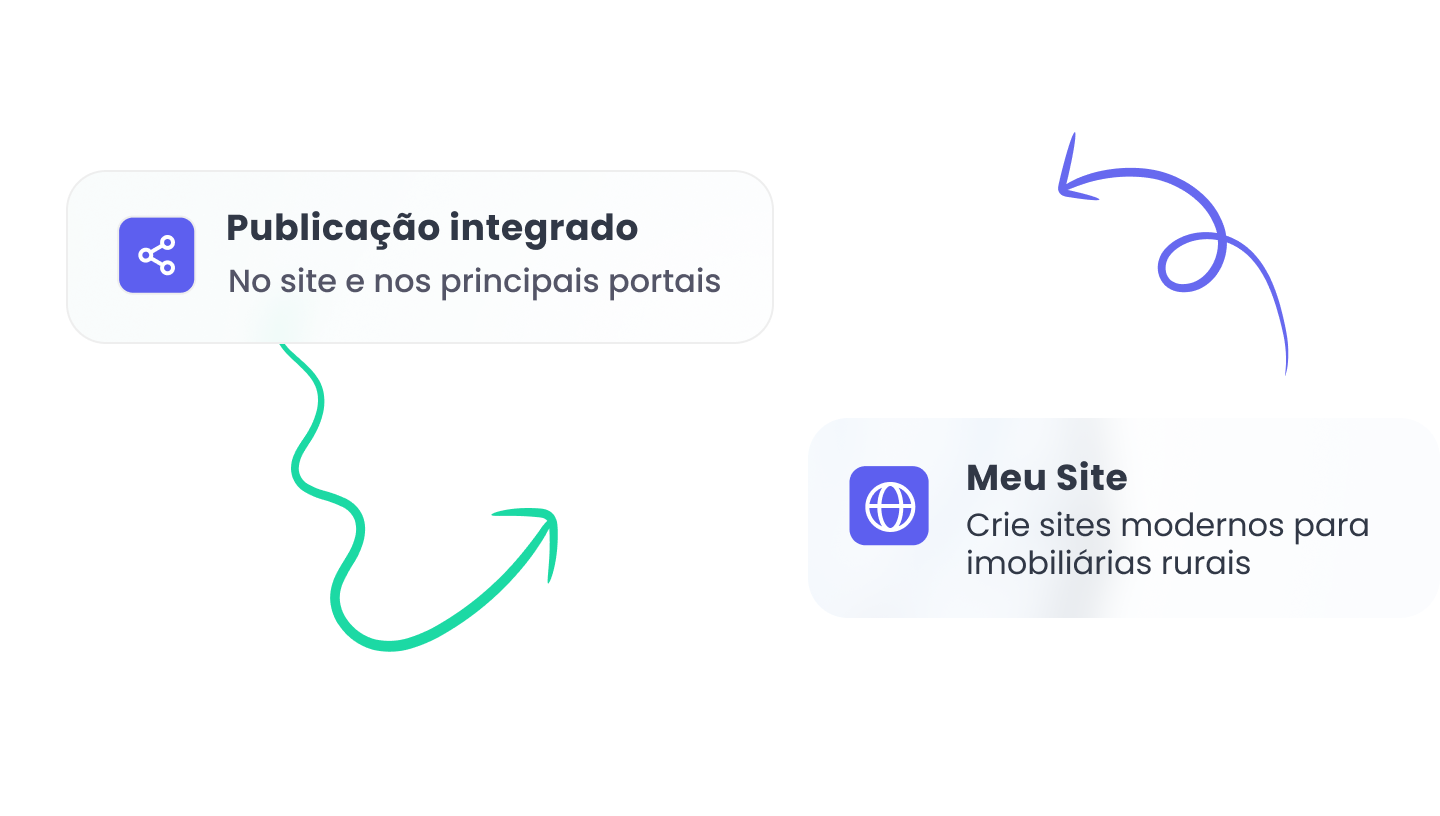
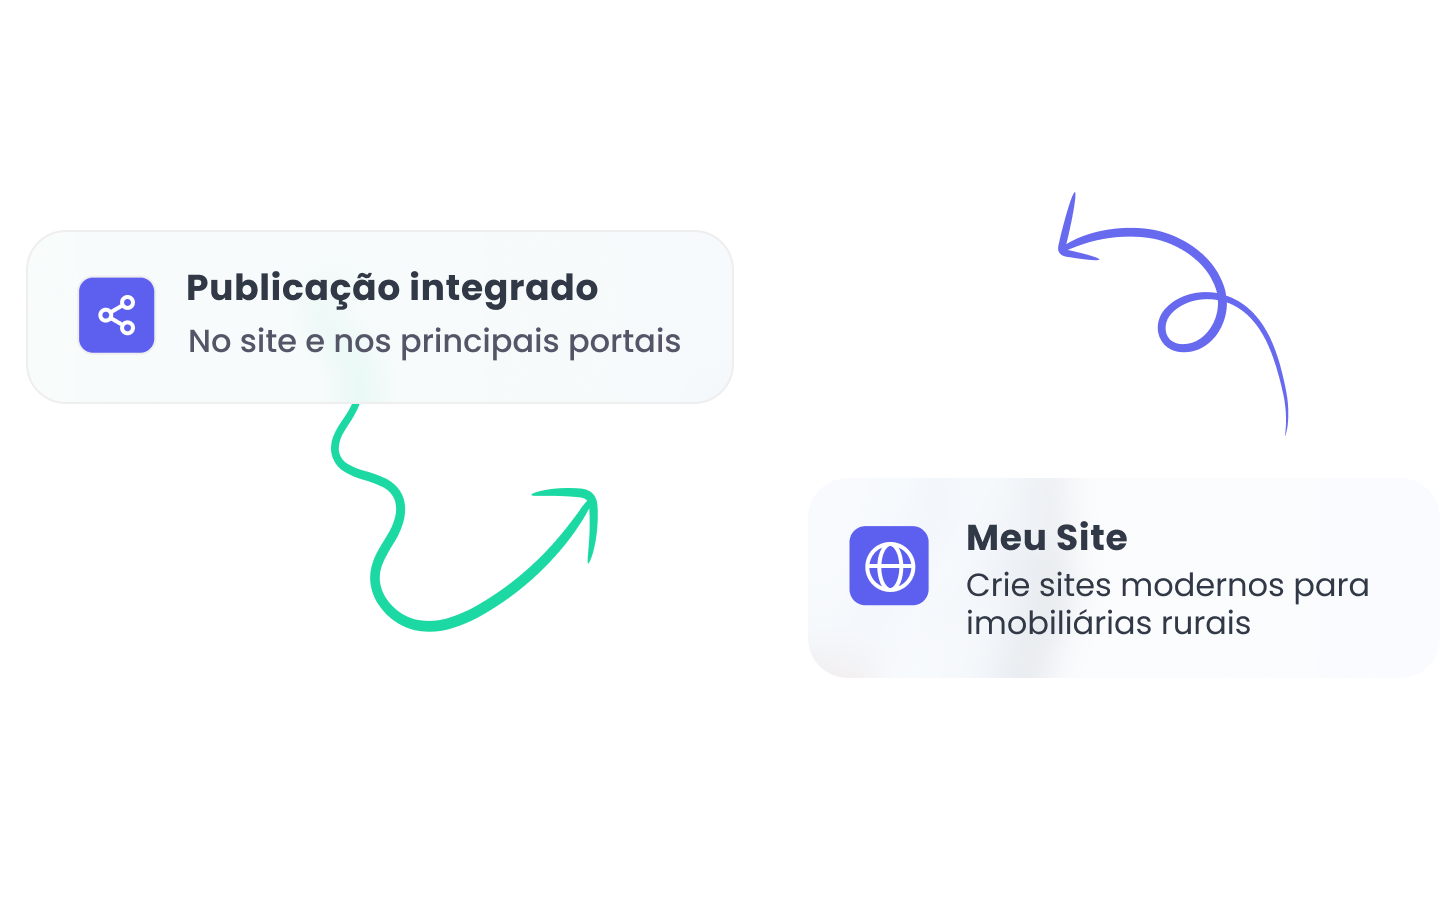
feat(modulos): update API Hub, Technology and Rural assets
Rework the APIs Technology section (no background panel, Figma spacing, new
curve arrow exported from Figma) and make the APIs Hub section wrap
CrmPortfolio so it follows the standard panel width and gradient. Add the
label for the new curve arrow and update the Site Rural card arrow, Site Rural
listings mockup and CRM Rural portfolio mockup images.

diff --git a/app/components/sections/ApisTechnology.vue b/app/components/sections/ApisTechnology.vue
@@ -5,25 +5,59 @@ const mockupImgAttrs = {
   class: 'mx-auto h-auto w-full max-w-[1100px] rounded-[16px] tablet-lg:rounded-[24px]',
   loading: 'lazy'
 }
+
+const curveSrc = '/icons/apis-tecnologia-seta-curva.svg'
+const starSrc = '/icons/crm-tecnologia-estrela.svg'
 </script>
 
 <template>
-  <CrmTechnology
-    section-id="apis-tecnologia"
-    title-class="mx-auto leading-[1.4] desktop-full:max-w-[1000px]"
-    mockup-src="/images/modulos-apis-hub-integrador/technology-mockup-telas.png"
-    :mockup-width="2200"
-    :mockup-height="1293"
-    mockup-sizes="mobile-lg:100vw tablet-lg:920px desktop:1100px"
-    :mockup-img-attrs="mockupImgAttrs"
-  >
-    <template #title>
-      Integrações que ampliam o alcance do seu negócio <span class="text-brand">imobiliário</span>
-    </template>
+  <section id="apis-tecnologia" class="relative py-10">
+    <div class="mx-auto w-full max-w-[1400px] px-4 mobile-lg:px-6 tablet:px-8 desktop-full:px-0">
+      <div class="relative flex flex-col items-center gap-10">
+        <h2 class="mx-auto text-center leading-[1.4] desktop-full:max-w-[1000px]">
+          APIs e HUB Integrador:<br class="hidden tablet-lg:inline" /> toda a sua operação <span class="text-brand">conectada</span>
+        </h2>
 
-    <template #description>
-      Integre Facebook Ads, Instagram Ads e outros canais para captar leads qualificados em todos
-      os segmentos.
-    </template>
-  </CrmTechnology>
+        <div class="relative w-full">
+          <img
+            :src="starSrc"
+            :alt="imageLabel(starSrc)" :title="imageLabel(starSrc)"
+            aria-hidden="true"
+            class="pointer-events-none absolute inset-y-0 left-0 my-auto hidden size-[80px] desktop-full:block"
+          />
+
+          <NuxtPicture
+            src="/images/modulos-apis-hub-integrador/technology-mockup-telas.png"
+            :width="2200"
+            :height="1293"
+            densities="x1 x2"
+            sizes="mobile-lg:100vw tablet-lg:920px desktop:1100px"
+            :img-attrs="mockupImgAttrs"
+          />
+        </div>
+
+        <div class="relative w-full max-w-[1100px]">
+          <div class="rounded-[30px] border border-[#dee4fd] bg-[#f3f7ff] p-6 tablet:p-10">
+            <p class="mx-auto max-w-[898px] text-center text-[20px] leading-[1.4] text-ink tablet-lg:text-[24px]">
+              Integre Facebook Ads, Instagram Ads e outros canais para captar leads qualificados em todos
+              os segmentos.
+            </p>
+          </div>
+
+          <img
+            :src="curveSrc"
+            :alt="imageLabel(curveSrc)" :title="imageLabel(curveSrc)"
+            aria-hidden="true"
+            class="pointer-events-none absolute top-[13px] -right-[115px] hidden h-[220px] w-[185px] desktop-full:block"
+          />
+        </div>
+
+        <div class="flex justify-center">
+          <CtaButton variant="primary" to="/testar-gratis/" class="whitespace-nowrap">
+            Testar grátis por 30 dias
+          </CtaButton>
+        </div>
+      </div>
+    </div>
+  </section>
 </template>

diff --git a/app/components/sections/ApisIntegrationsHub.vue b/app/components/sections/ApisIntegrationsHub.vue
@@ -30,14 +30,9 @@ const hubFeatures: HubFeatureItem[] = [
 </script>
 
 <template>
-  <Portfolio
-    section-id="apis-hub-integracoes"
-    :features="hubFeatures"
-    cta-to="/testar-gratis/"
-    cta-text="Testar grátis por 30 dias"
-  >
+  <CrmPortfolio section-id="apis-hub-integracoes" :features="hubFeatures">
     <template #heading>
-      APIs e HUB Integrador: toda a sua operação <span class="text-brand">conectada</span>
+      APIs e HUB Integrador:<br class="hidden tablet-lg:inline" /> toda a sua operação <span class="text-brand">conectada</span>
     </template>
 
     <template #lead>
@@ -61,5 +56,5 @@ const hubFeatures: HubFeatureItem[] = [
       Integre suas ferramentas com agilidade, centralize os dados da operação e elimine tarefas
       manuais repetitivas em poucos cliques.
     </template>
-  </Portfolio>
+  </CrmPortfolio>
 </template>

diff --git a/app/utils/imageLabels.ts b/app/utils/imageLabels.ts
@@ -123,6 +123,7 @@ const labels: Record<string, string> = {
   'crm-hero-divider-onda': 'Onda decorativa',
   'crm-tecnologia-seta-curva': 'Seta curva decorativa',
   'crm-tecnologia-estrela': 'Estrela decorativa',
+  'apis-tecnologia-seta-curva': 'Seta curva decorativa',
   'icone-crm-allinone-funil': 'Ícone de funil de vendas',
   'icone-crm-allinone-kanban': 'Ícone de kanban',
   'icone-crm-allinone-gestao-leads': 'Ícone de gestão de leads',
